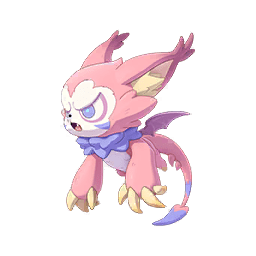
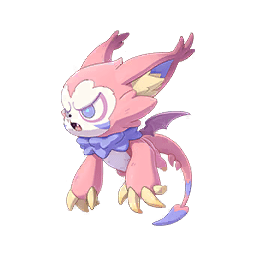
完善暂未上线的S4精灵数据

diff --git a/data/图鉴.js b/data/图鉴.js
@@ -3444,11 +3444,13 @@ var json = {
         "reverse": true,
         "bg": 1,
         "fruit": ["0216"],
+        "lead": true,
         "class": [
             ["1"],
             ["2"],
             ["5-3"],
             ["6-4"],
+            ["9-8"],
             ["10-5"],
             ["11-6-7",
                 [
@@ -3764,6 +3766,7 @@ var json = {
         "bg": 3,
         "fruit": ["0237"],
         "yise": true,
+        "lead": true,
         "diff": 1,
         "class": [
             ["1"],
@@ -3772,6 +3775,7 @@ var json = {
             ["6-4"],
             ["7-10"],
             ["8-5", "2"],
+            ["9-11"],
             ["10-6"],
             ["11-7-9",
                 [
@@ -4635,6 +4639,7 @@ var json = {
         "name": "小帕尔",
         "type": ["恶"],
         "bg": 7,
+        "yise": true,
         "class": [
             ["1"],
             ["2"],
@@ -4646,6 +4651,7 @@ var json = {
         "type": ["恶"],
         "reverse": true,
         "bg": 7,
+        "yise": true,
         "class": [
             ["1"],
             ["2"],
@@ -4657,6 +4663,7 @@ var json = {
         "type": ["恶"],
         "reverse": true,
         "bg": 7,
+        "yise": true,
         "class": [
             ["1"],
             ["2"],
@@ -7049,8 +7056,9 @@ var json = {
     "3236": {
         "name": "星星眼",
         "type": ["幻"],
-        "yise": true,
         "bg": 0,
+        "fruit": ["3236"],
+        "yise": true,
         "class": []
     },
     "3242": {
@@ -7368,8 +7376,9 @@ var json = {
     "3542": {
         "name": "未完虫",
         "type": ["幽", "虫"],
-        "yise": true,
         "bg": 0,
+        "fruit": ["3542"],
+        "yise": true,
         "class": []
     },
     "3543": {
@@ -7435,22 +7444,25 @@ var json = {
     "3574": {
         "name": "热团团",
         "type": ["火", "虫"],
-        "yise": true,
         "bg": 0,
+        "fruit": ["3574"],
+        "yise": true,
         "class": []
     },
     "3575": {
         "name": "焰米龙",
         "type": ["火", "虫"],
-        "yise": true,
         "bg": 0,
+        "fruit": ["3574"],
+        "yise": true,
         "class": []
     },
     "3576": {
         "name": "圣凯布米龙",
         "type": ["火", "虫"],
-        "yise": true,
         "bg": 0,
+        "fruit": ["3574"],
+        "yise": true,
         "class": []
     },
     "3580": {
@@ -7486,15 +7498,17 @@ var json = {
     "3589": {
         "name": "玳龟",
         "type": ["幻"],
-        "yise": true,
         "bg": 0,
+        "fruit": ["3589"],
+        "yise": true,
         "class": []
     },
     "3590": {
         "name": "玳塔",
         "type": ["幻"],
-        "yise": true,
         "bg": 0,
+        "fruit": ["3589"],
+        "yise": true,
         "class": []
     },
     "3623": {
@@ -7722,15 +7736,17 @@ var json = {
     "3663": {
         "name": "量风碗",
         "type": ["翼", "机械"],
-        "yise": true,
         "bg": 0,
+        "fruit": ["3663"],
+        "yise": true,
         "class": []
     },
     "3664": {
         "name": "测风蝉",
         "type": ["翼", "机械"],
-        "yise": true,
         "bg": 0,
+        "fruit": ["3663"],
+        "yise": true,
         "class": []
     },
     "3665": {
@@ -7988,36 +8004,41 @@ var json = {
     "3764": {
         "name": "新月鹭",
         "type": ["翼", "冰"],
-        "yise": true,
         "bg": 0,
+        "fruit": ["3764"],
+        "yise": true,
         "class": []
     },
     "3765": {
         "name": "月辉鹭",
         "type": ["翼", "冰"],
-        "yise": true,
         "bg": 0,
+        "fruit": ["3764"],
+        "yise": true,
         "class": []
     },
     "3766": {
         "name": "月使鹭纳",
         "type": ["翼", "冰"],
-        "yise": true,
         "bg": 0,
+        "fruit": ["3764"],
+        "yise": true,
         "class": []
     },
     "3767": {
         "name": "章脑丸",
         "type": ["光", "水"],
-        "yise": true,
         "bg": 0,
+        "fruit": ["3767"],
+        "yise": true,
         "class": []
     },
     "3768": {
         "name": "智辉章脑",
         "type": ["光", "水"],
-        "yise": true,
         "bg": 0,
+        "fruit": ["3767"],
+        "yise": true,
         "class": []
     },
     "3769": {
@@ -8035,42 +8056,49 @@ var json = {
     "3771": {
         "name": "小浣蛋",
         "type": ["恶"],
-        "yise": true,
         "bg": 0,
+        "fruit": ["3771"],
+        "yise": true,
         "class": []
     },
     "3772": {
         "name": "黑手浣熊",
         "type": ["恶"],
-        "yise": true,
         "bg": 0,
+        "fruit": ["3771"],
+        "yise": true,
         "class": []
     },
     "3773": {
         "name": "幽铃",
         "type": ["幽"],
         "bg": 0,
+        "fruit": ["3773"],
+        "yise": true,
         "class": []
     },
     "3774": {
         "name": "摇铃魔偶",
         "type": ["幽"],
-        "yise": true,
         "bg": 0,
+        "fruit": ["3773"],
+        "yise": true,
         "class": []
     },
     "3775": {
         "name": "布灵",
         "type": ["幻", "光"],
-        "yise": true,
         "bg": 0,
+        "fruit": ["3775"],
+        "yise": true,
         "class": []
     },
     "3776": {
         "name": "布灵布灵",
         "type": ["幻", "光"],
-        "yise": true,
         "bg": 0,
+        "fruit": ["3775"],
+        "yise": true,
         "class": []
     },
     "4094": {

diff --git a/script/script.js b/script/script.js
@@ -1,4 +1,4 @@
-var nowVer = 1788607648381;
+var nowVer = 1788966898043;
 var dataJSON = [["图鉴", "地区", "果实", "形态", "别称"], ["json", "book", "fruit", "diff", "nick"]];
 
 function clearCache() {
@@ -61,7 +61,7 @@ try {
     const syncText = dataBox.querySelector(".syncLabel .sync");
     var accessToken = localStorage.getItem("cloudSaveToken") || "";
     var uploadTimer = null;
-    const version = [4, 7, 2, 1];  //头像、立绘、果实、背景
+    const version = [4, 8, 2, 1];  //头像、立绘、果实、背景
     const filterContent = {
         "class": [],
         "types": [],
@@ -892,29 +892,56 @@ try {
                         let resName = preResName + ".png";
                         avatar.onerror = function() {
                             avatar.onerror = null;
-                            avatar.src = `avatar/${id}.png?${version[0]}`;
+                            if (parseInt(id) < 3000) {
+                                avatar.src = `avatar/${id}.png?${version[0]}`;
+                            } else {
+                                avatar.src = `createJSON/avatar/${id}.png`;
+                            }
                         }
-                        avatar.src = `avatar/${resName}?${version[0]}`;
+                        if (parseInt(id) < 3000) {
+                            avatar.src = `avatar/${resName}?${version[0]}`;
+                        } else {
+                            avatar.src = `createJSON/avatar/${resName}`;
+                        }
                     };
                     let resName = preResName + yise + ".png";
-                    avatar.src = `avatar/${resName}?${version[0]}`;
+                    if (parseInt(id) < 3000) {
+                        avatar.src = `avatar/${resName}?${version[0]}`;
+                    } else {
+                        avatar.src = `createJSON/avatar/${resName}`;
+                    }
                     const setImg = new Image();
                     setImg.onload = () => {
-                        backImg.style.backgroundImage = `url(illustration/${resName}?${version[1]})`;
+                        if (parseInt(id) < 3000) {
+                            backImg.style.backgroundImage = `url(illustration/${resName}?${version[1]})`;
+                        } else {
+                            backImg.style.backgroundImage = `url(createJSON/illustration/${resName})`;
+                        }
                         setReverse(pet, preResName);
                     }
                     setImg.onerror = () => {
                         let resName = preResName + ".png";
                         setImg.onload = () => {
-                            backImg.style.backgroundImage = `url(illustration/${resName}?${version[1]})`;
+                            if (parseInt(id) < 3000) {
+                                backImg.style.backgroundImage = `url(illustration/${resName}?${version[1]})`;
+                            } else {
+                                backImg.style.backgroundImage = `url(createJSON/illustration/${resName})`;
+                            }
                             setReverse(pet, preResName);
                         }
                         setImg.onerror = () => {
-                            backImg.style.backgroundImage = `url(illustration/${id}.png?${version[1]})`;
+                            if (parseInt(id) < 3000) {
+                                backImg.style.backgroundImage = `url(illustration/${id}.png?${version[1]})`;
+                            } else {
+                                backImg.style.backgroundImage = `url(createJSON/illustration/${id}.png)`;
+                            }
                         }
-                        setImg.src = `illustration/${resName}?${version[1]}`;
                     }
-                    setImg.src = `illustration/${resName}?${version[1]}`;
+                    if (parseInt(id) < 3000) {
+                        setImg.src = `illustration/${resName}?${version[1]}`;
+                    } else {
+                        setImg.src = `createJSON/illustration/${resName}`;
+                    }
                 }
                 function checkDiff(diffInfo) {
                     if (diff[id + diffT] != undefined) {
@@ -1092,7 +1119,11 @@ try {
                         }
                         let fruitEle = document.createElement("div");
                         fruitEle.classList.add("fruit");
-                        fruitEle.style.backgroundImage = `url(fruits/${num}.png?${version[2]})`;
+                        if (parseInt(id) < 3000) {
+                            fruitEle.style.backgroundImage = `url(fruits/${num}.png?${version[2]})`;
+                        } else {
+                            fruitEle.style.backgroundImage = `url(createJSON/fruits/${num}.png)`;
+                        }
                         fruitEle.addEventListener("click", () => {
                             showAlertBox("fruit", { id: num, name: name, title: `${name}的果实` });
                         });

diff --git a/index.html b/index.html
@@ -7,7 +7,7 @@
     <meta http-equiv="Cache-Control" content="no-cache">
     <title>洛克图鉴</title>
     <link rel="stylesheet" href="font-awesome-4/css/font-awesome.min.css" fetchpriority="high">
-    <link rel="stylesheet" href="style.css?1788607648381">
+    <link rel="stylesheet" href="style.css?1788966898043">
 </head>
 
 <body>
@@ -338,7 +338,7 @@
             </div>
         </div>
     </app>
-    <script src="script/script.js?1788607648381"></script>
+    <script src="script/script.js?1788966898043"></script>
     <note>
         <!-- 课题&形态数据：NRC/Content/ScriptC/Data/Bin/*/PET_HANDBOOK.json -->
         <!-- 背景数据：NRC/Content/ScriptC/Data/Bin/*/PETBASE_CONF.json -->

diff --git a/data/别称.js b/data/别称.js
@@ -138,6 +138,7 @@ var nick = {
     "0200-首领": "奇梦咪",
     "0204-首领": "伊兰龙",
     "0206-首领": "风暴酷拉",
+    "0218-首领": "烈焰狂战士",
     "0220": "碧蓝珊瑚",
     "0220-1": "翠绿纶布",
     "0220-2": "杏黄百合",
@@ -158,6 +159,7 @@ var nick = {
     "0237-1": "下弦的样子",
     "0238": "上弦的样子",
     "0238-1": "下弦的样子",
+    "0238-首领": "满月砣",
     "0258": "极昼的样子",
     "0258-1": ["极夜的样子", ["恶", "冰"], 7],
     "0259": "极昼的样子",
